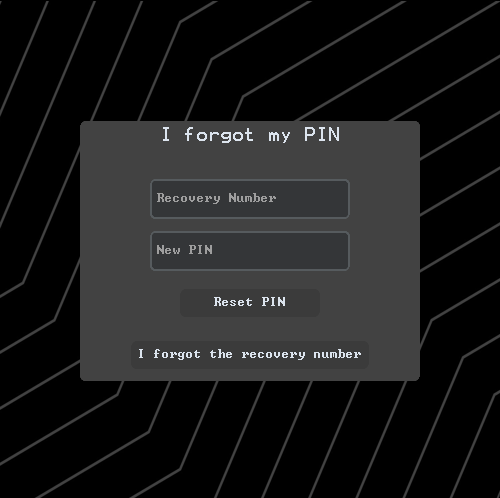
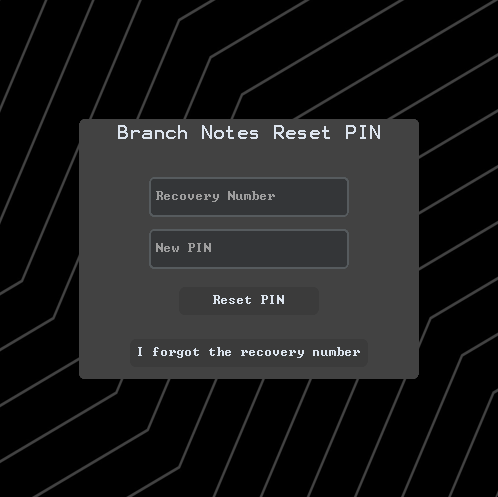
added more images for readme, changed label of pin reset page

diff --git a/login.py b/login.py
@@ -338,7 +338,7 @@ def login():
                         
         # Label for page text
         forgot_label = ctk.CTkLabel(forgot_frame,
-                                   text="I forgot my PIN",
+                                   text="Branch Notes Reset PIN",
                                    font=("Terminal", 17))     
         forgot_label.pack()
 
